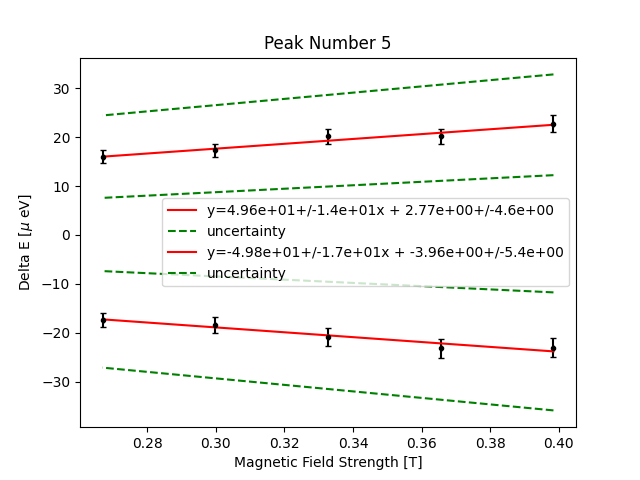
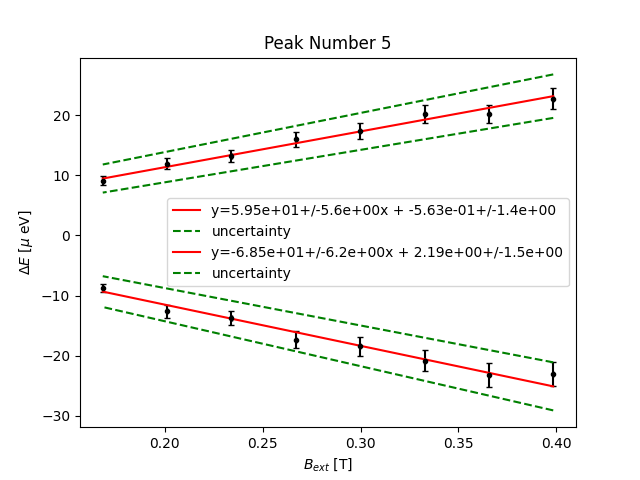
finished zeeman effect lab report

diff --git a/Zeeman_Effect.py b/Zeeman_Effect.py
@@ -4,7 +4,7 @@ import pandas as pd
 from scipy.signal import find_peaks
 
 from linear_regression import linear_regression
-import scipy as sp
+from SDOM_analysis import SDOM_analysis
 
 
 def sind(x):
@@ -16,28 +16,15 @@ def cosd(x):
     x = (np.pi / 180) * x
     return np.cos(x)
 
-def get_peaks(unsplit_filename, split_filename, max_peaks, fignum):
+def get_peaks(unsplit_filename, split_filename, max_peaks):
     unsplit_df = pd.read_csv(f"Data/Zeeman Effect/{unsplit_filename}")
     split_df = pd.read_csv(f"Data/Zeeman Effect/{split_filename}")
-
-    plt.figure(fignum)
-    plt.xlabel('alpha (degrees)')
-    plt.ylabel('Intensity')
-    plt.title(split_filename)
 
     pos_peak_list = []
     neg_peak_list = []
     for df in unsplit_df, split_df:
 
         df.loc[abs(df['alpha']) < 2/3, ['I']] = 0
-
-        if df is split_df:
-            color = 'red'
-
-        else:
-            color = 'blue'
-
-        plt.plot(df['alpha'], df['I'], color=color, linewidth=0.5)
 
         peaks = find_peaks((df['I']), width=1)
         peaks = peaks[0]
@@ -70,21 +57,7 @@ def get_peaks(unsplit_filename, split_filename, max_peaks, fignum):
             unsplit_peaks = peaks[0][:max_peaks]
             split_peaks = peaks[1][:2*max_peaks]
 
-        plt.scatter(split_df.loc[split_peaks, ['alpha']], split_df.loc[split_peaks, ['I']], color='red', marker='*')
-        plt.scatter(unsplit_df.loc[unsplit_peaks, ['alpha']], unsplit_df.loc[unsplit_peaks, ['I']], color='blue',
-                    marker='*')
-        plt.plot(split_df['alpha'], split_df['I'], color='red', linewidth=0.5)
-        plt.plot(unsplit_df['alpha'], unsplit_df['I'], color='blue', linewidth=0.5)
-        plt.savefig(f"figures/Zeeman_Effect_Figures/{unsplit_filename}2.png")
-
-        # for n, peak in enumerate(unsplit_peaks):
-        #     plt.annotate(f"alpha {n}", (unsplit_df.loc[peak, ['alpha']], unsplit_df.loc[peak, ['I']]))
-        #
-        # for n, peak in enumerate(split_peaks):
-        #     plt.annotate(f"alpha_split {n}", (split_df.loc[peak, ['alpha']], split_df.loc[peak, ['I']]))
-
         FWHM = 0.05
-
 
         for n, unsplit_peak in enumerate(unsplit_peaks):
 
@@ -154,7 +127,6 @@ def get_delta_E_err(FWHM, a1, a2, deltaE):
     da1 = (np.pi / 180) * FWHM
     da2 = (np.pi / 180) * FWHM
 
-
     a1 = (np.pi / 180) * a1
     a2 = (np.pi / 180) * a2
 
@@ -177,7 +149,6 @@ def get_delta_E_err(FWHM, a1, a2, deltaE):
 def plot_DeltaE_vs_Bfield(current, points, linreg, fignum):
 
     B_field_err = np.array(linreg[0] * linreg[1])
-    B_field_err = 0
 
     slope1_list = []
     slope2_list = []
@@ -187,10 +158,10 @@ def plot_DeltaE_vs_Bfield(current, points, linreg, fignum):
 
         B_field = np.array(linreg[0] * current + linreg[3])
 
-        if n == 0:
+        if n == 0 or n == 4:
             h = len(B_field)
 
-        elif n <= 2:
+        elif n <= 2 or 4 < n <= 6:
             h = -2
 
         else:
@@ -208,8 +179,8 @@ def plot_DeltaE_vs_Bfield(current, points, linreg, fignum):
         slope1, dslope1, _, _ = linear_regression(x_data=B_field, y_data=delta_E_above, x_err=B_field_err, y_err=delta_E_above_err)
         slope2, dslope2, _, _ = linear_regression(x_data=B_field, y_data=delta_E_below, x_err=B_field_err, y_err=delta_E_below_err)
 
-        plt.xlabel('Magnetic Field Strength [T]')
-        plt.ylabel(r'Delta E [$\mu$ eV]')
+        plt.xlabel(r'$B_{ext}$ [T]')
+        plt.ylabel(r'$\Delta E$ [$\mu$ eV]')
         plt.title(f'Peak Number {n+1}')
 
         plt.savefig(f'figures/Zeeman_Effect_Figures/Bfield_vs_deltaE_peak_{n+1}.png')
@@ -229,6 +200,7 @@ fignum = 1
 
 plt.figure(fignum)
 fignum += 1
+
 BvsI = pd.read_csv('Data/Zeeman Effect/Current_vs_Field.csv')
 linreg = linear_regression(x_data=BvsI['Current [A]'], y_data=BvsI['B [mT]']/1000,x_err=BvsI['Current_err'], y_err=BvsI['B_err']/1000)
 plt.xlabel('Current [A]')
@@ -239,37 +211,32 @@ plt.savefig('figures/Zeeman_Effect_Figures/Current_vs_Field.png')
 
 max_peaks = 4
 
-point1 = get_peaks('6A_no_splitting.csv', '6A_splitting.csv', max_peaks=max_peaks, fignum=fignum)
-fignum += 1
+point1 = get_peaks('6A_no_splitting.csv', '6A_splitting.csv', max_peaks=max_peaks)
 
-point2 = get_peaks('5point5A_no_splitting.csv', '5point5A_splitting.csv', max_peaks=max_peaks, fignum=fignum)
-fignum += 1
+point2 = get_peaks('5point5A_no_splitting.csv', '5point5A_splitting.csv', max_peaks=max_peaks)
 
-point3 = get_peaks('5A_no_splitting.csv', '5A_splitting.csv', max_peaks=max_peaks, fignum=fignum)
-fignum += 1
+point3 = get_peaks('5A_no_splitting.csv', '5A_splitting.csv', max_peaks=max_peaks)
 
-point4 = get_peaks('4point5A_no_splitting.csv', '4point5A_splitting.csv', max_peaks=max_peaks, fignum=fignum)
-fignum += 1
+point4 = get_peaks('4point5A_no_splitting.csv', '4point5A_splitting.csv', max_peaks=max_peaks)
 
-point5 = get_peaks('4A_no_splitting.csv', '4A_splitting.csv', max_peaks=max_peaks, fignum=fignum)
-fignum += 1
+point5 = get_peaks('4A_no_splitting.csv', '4A_splitting.csv', max_peaks=max_peaks)
 
-point6 = get_peaks('3point5A_no_splitting.csv', '3point5A_splitting.csv', max_peaks=max_peaks, fignum=fignum)
-fignum += 1
+point6 = get_peaks('3point5A_no_splitting.csv', '3point5A_splitting.csv', max_peaks=max_peaks)
 
-point7 = get_peaks('3A_no_splitting.csv', '3A_splitting.csv', max_peaks=max_peaks, fignum=fignum)
-fignum += 1
+point7 = get_peaks('3A_no_splitting.csv', '3A_splitting.csv', max_peaks=max_peaks)
 
-point8 = get_peaks('2point5A_no_splitting.csv', '2point5A_splitting.csv', max_peaks=max_peaks, fignum=fignum)
-fignum += 1
+point8 = get_peaks('2point5A_no_splitting.csv', '2point5A_splitting.csv', max_peaks=max_peaks)
+
 
 points = [point1, point2, point3, point4, point5, point6, point7, point8]
-current = np.array([6, 5.5, 5, 4.5, 4, 3.5, 3, 2.5])
+current = np.array([6, 5.5, 5, 4.5, 4, 3.5, 3, 2.5]) # A
 
-fignum += 1
 slope1_list, slope2_list, dslope1_list, dslope2_list = plot_DeltaE_vs_Bfield(current, points, linreg, fignum)
 
-for slope1, slope2, dslope1, dslope2 in zip(slope1_list, slope2_list, dslope1_list, dslope2_list):
+
+mub_list = []
+mub_err_list = []
+for n, (slope1, slope2, dslope1, dslope2) in enumerate(zip(slope1_list, slope2_list, dslope1_list, dslope2_list)):
         slope1 = abs(slope1 * 10**-6)
         slope2 = abs(slope2 * 10**-6)
 
@@ -277,10 +244,63 @@ for slope1, slope2, dslope1, dslope2 in zip(slope1_list, slope2_list, dslope1_li
         dslope2 = abs(dslope2 * 10**-6)
 
         slope = (slope1 + slope2) / 2
-        dslope = (dslope1 + dslope2) / 2
+        dslope = 0.5 * np.sqrt(dslope1**2 + dslope2**2)
 
-        print(f"Bohr magneton = {slope} +/- {dslope}")
+        mub_list.append(slope)
+        mub_err_list.append(dslope)
+        print(f"Bohr magneton {n+1} = {slope} +/- {dslope} eV/T")
 
+plt.figure(10)
+SDOM_analysis(len(mub_list), mub_list, mub_err_list, accepted_val=5.788 * 10**-5)
+plt.ylabel(r"$\mu_B$ [eV/T]")
+plt.savefig('figures/Zeeman_Effect_Figures/SDOM_Bohr_Magneton.png')
+plt.xlabel('Peak Number')
+
+""" Now lets just make a pretty graph of peaks for the report """
+plt.figure(11)
+
+unsplit_df = pd.read_csv("Data/Zeeman Effect/6A_splitting.csv")
+split_df = pd.read_csv("Data/Zeeman Effect/6A_no_splitting.csv")
+
+plt.xlabel('alpha (degrees)')
+plt.ylabel('Intensity')
+plt.title('Unsplit Peaks')
+
+
+plt.plot(split_df['alpha'], split_df['I'], color='blue', linewidth=0.5)
+plt.savefig('figures/Zeeman_Effect_Figures/6A_Unsplit_Peaks.png')
+
+plt.figure(12)
+
+plt.xlabel('alpha (degrees)')
+plt.ylabel('Intensity')
+plt.title('Split Peaks')
+
+plt.plot(unsplit_df['alpha'], unsplit_df['I'], color='red', linewidth=0.5)
+plt.savefig('figures/Zeeman_Effect_Figures/6A_Split_Peaks.png')
+
+plt.figure(13)
+
+plt.xlabel('alpha (degrees)')
+plt.ylabel('Intensity')
+plt.title('Combined Peaks at 6A')
+
+plt.plot(unsplit_df['alpha'], unsplit_df['I'], color='blue', linewidth=0.5, label='Unsplit')
+plt.plot(split_df['alpha'], split_df['I'], color='red', linewidth=0.5, label='Split')
+plt.legend()
+plt.savefig('figures/Zeeman_Effect_Figures/Combined_Peaks.png')
+
+plt.figure(14)
+
+plt.xlabel('alpha (degrees)')
+plt.ylabel('Intensity')
+
+plt.title('Combined Peaks at 3A')
+split_df = pd.read_csv("Data/Zeeman Effect/3A_splitting.csv")
+unsplit_df = pd.read_csv("Data/Zeeman Effect/3A_no_splitting.csv")
+plt.plot(unsplit_df['alpha'], unsplit_df['I'], color='blue', linewidth=0.5, label='Unsplit')
+plt.plot(split_df['alpha'], split_df['I'], color='red', linewidth=0.5, label='Split')
+plt.legend()
 
 plt.show()
 
